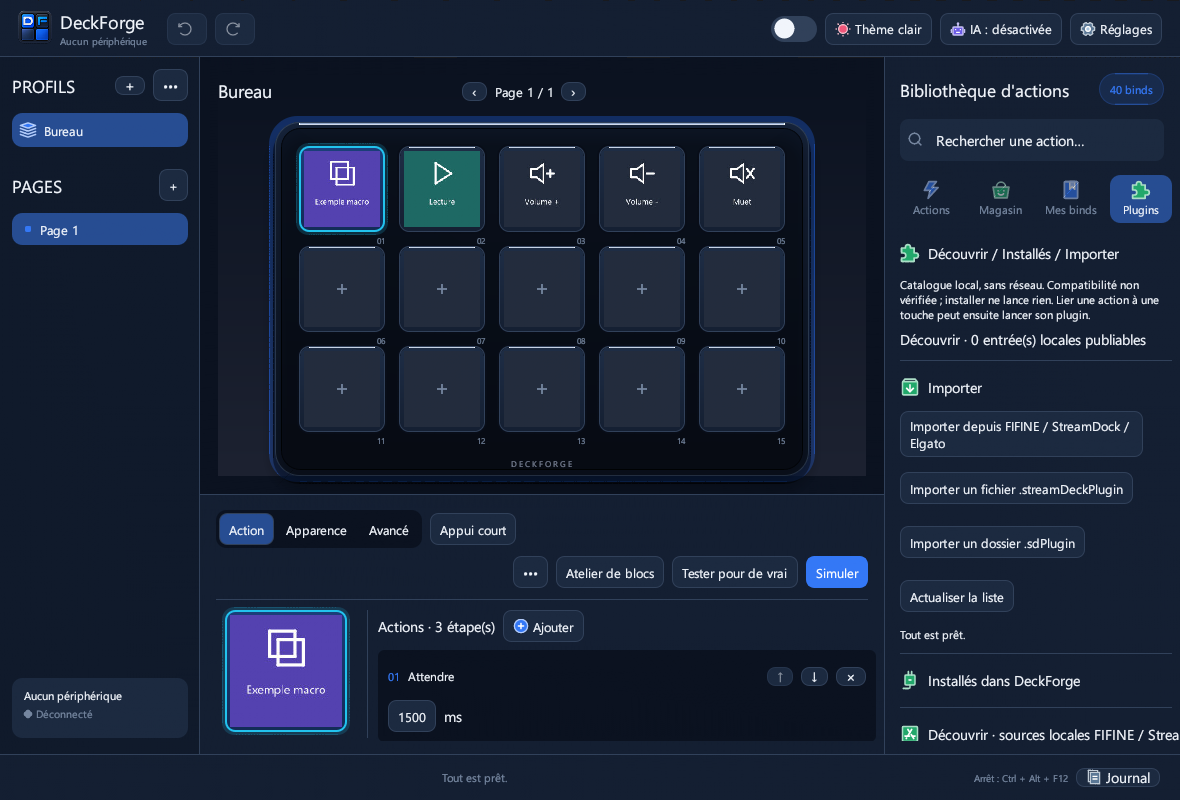
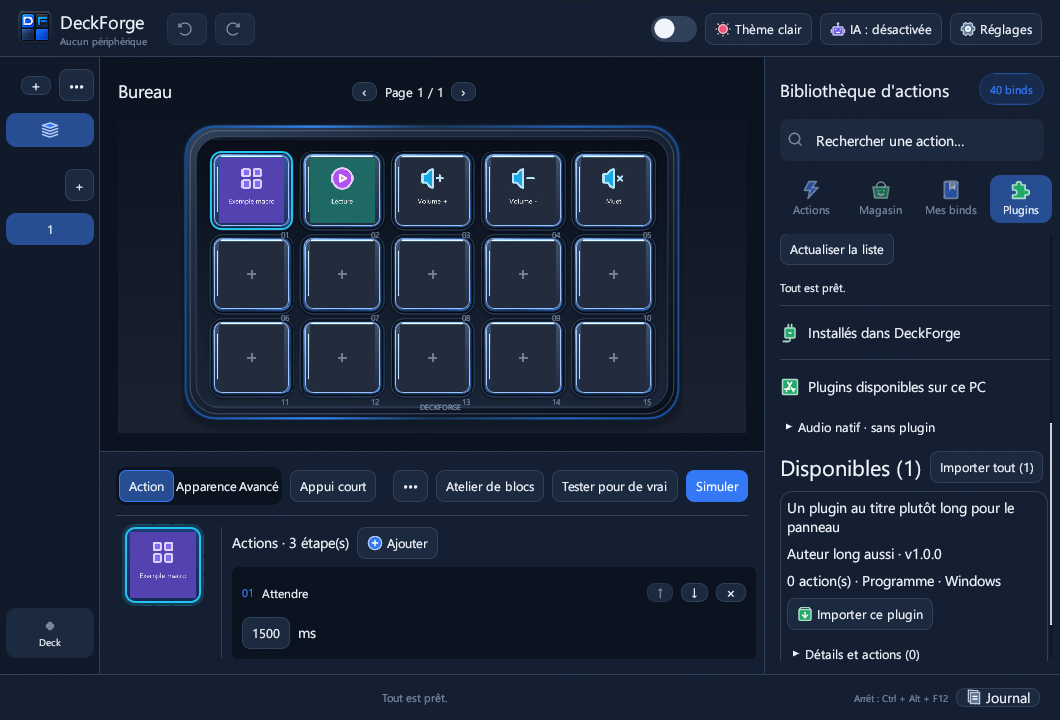
docs: show 0.8.5 plugin import and fixed inspector scroll

Changed region(s): [[0.0, 0.0, 1.0, 1.0], [0.3736, 0.9472, 0.4358, 0.9778]]

diff --git a/README.md b/README.md
@@ -25,6 +25,12 @@
 - **Pavé FIFINE D6** : châssis SVG redimensionnable à 15 touches (5 × 3), icônes par défaut IconPark et onglets arrondis. Les médias personnalisés des touches ne sont pas remplacés.
 - **Assistant local facultatif** : connaissances configurables dans `res/ia/ia-locale.json`, demandes conditionnelles et répétitives avec aperçu préalable ; aucune action n'est exécutée automatiquement. Voir [notes de la 0.8.5](docs/RELEASE-0.8.5.md).
 
+| Importation de plugins | Défilement de l'inspecteur |
+|---|---|
+| ![Exemple de carte de plugin et bouton d’import, capture du banc UI](docs/plugins-store.png) | ![Aperçu de touche fixe et propriétés défilantes à droite](docs/inspector-scroll-right.png) |
+
+*Captures du banc d’interface, sans périphérique connecté ; la carte de plugin utilise un exemple de test, pas un plugin installé.*
+
 ## Nouveautés 0.8.4
 
 - **Icônes multi-couleurs IconPark** dans toute l'interface, une couleur par famille d'actions (clavier, applications, web, logique, médias, audio, système, OBS, plugins, IA, images), lisibles en thème sombre comme en clair. Seuls les 66 pictogrammes utilisés sont embarqués ; le rendu des touches du périphérique ne change pas.
@@ -86,7 +92,7 @@ Composez des automatisations puissantes en glissant-déposant des blocs directem
 ### 🧩 Écosystème de Plugins Stream Deck & OpenAction
 Importez directement vos archives de plugins préférées (`.streamDeckPlugin` / `.sdPlugin`) depuis le magasin intégré. Dans **Bibliothèque → Plugins**, faites défiler la liste et cliquez sur **Importer ce plugin** dans la carte voulue ; « Importer tout » et l’import depuis un fichier ou un dossier restent disponibles :
 
-![Magasin de plugins](docs/plugins-store.png)
+![Exemple de plugin dans la bibliothèque (banc UI, données de test)](docs/plugins-store.png)
 
 - **Multi-moteurs d'exécution** : Prise en charge des exécutables natifs C++/Rust/C#, des scripts Node.js (`@elgato/streamdeck` v2) et des plugins avec moteur backend HTML (`Runtime::Html`).
 - **Property Inspectors HTML sécurisés** : Les fenêtres de réglages s'exécutent dans un sous-processus WebView2 isolé (`--isolated-inspector`) avec proxy loopback strict interdisant toute fuite réseau non autorisée (anti-TOCTOU, pas d'accès internet sauvage).
